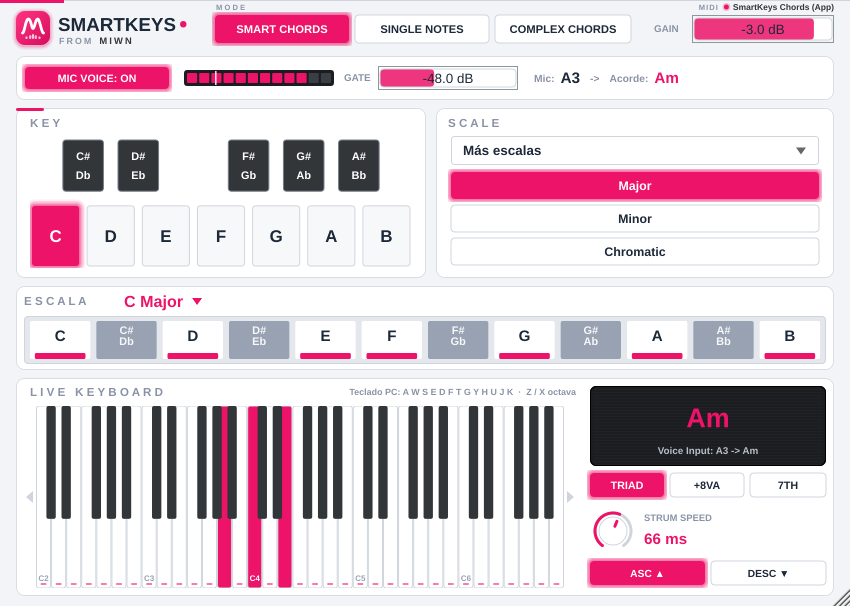
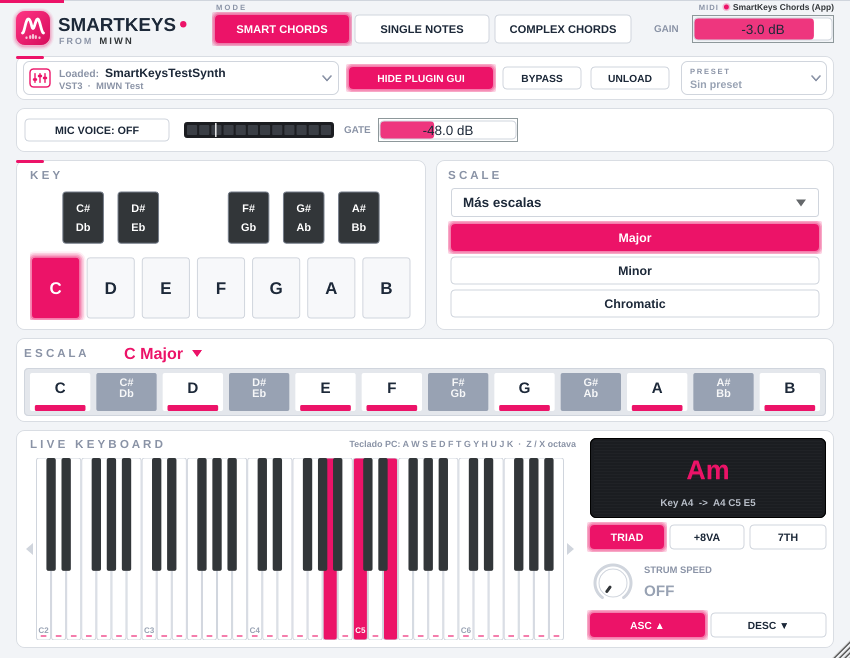
2.0.0: Enter guarda el preset también después de marcar "Incluir…"; README
- Ventana GUARDAR PRESET: la casilla "Incluir <instrumento> con su sonido" y
  los botones ya no se quedan con el teclado. Antes, marcar la casilla y
  pulsar Enter la desmarcaba (un botón con el foco se pulsa con Enter) y el
  preset no se guardaba.
- README: capturas de la 2.0 (el instrumento cargado y COMPLEX Neo-Soul) y la
  verificación de la ranura (aquí, en la Mac como VST3 y AU, y en Windows).

Claude-Session: https://claude.ai/code/session_01MxRAWnfchTYZ1WWk6Bw6r4

diff --git a/Source/PluginEditor.cpp b/Source/PluginEditor.cpp
@@ -1368,6 +1368,14 @@ PresetDialog::PresetDialog()
     includeInstrument.setColour (juce::ToggleButton::tickDisabledColourId, Colours::border);
     addAndMakeVisible (includeInstrument);
 
+    // El teclado se queda en el nombre: marcar "Incluir…" y pulsar Enter guarda (un botón con el
+    // foco se pulsaría con Enter y desmarcaría la casilla)
+    for (juce::Button* b : { (juce::Button*) &includeInstrument, (juce::Button*) &okButton, (juce::Button*) &cancelButton })
+    {
+        b->setWantsKeyboardFocus (false);
+        b->setMouseClickGrabsKeyboardFocus (false);
+    }
+
     okButton.setToggleState (true, juce::dontSendNotification);   // botón principal (rosa)
     okButton.getProperties().set (fontSizeProperty, 12.0f);
     cancelButton.getProperties().set (fontSizeProperty, 12.0f);

diff --git a/README.md b/README.md
@@ -345,7 +345,7 @@ En la 1.6.1 el teclado ya no usa App Nap: su hilo es de tiempo real y FL Studio,
 - **Tiempo real.** El hilo de audio sólo copia los NoteOn/NoteOff del camino del teclado (ya con el STRUM) a un FIFO lock-free de tamaño fijo, con su hora: inicio del bloque + un bloque + su posición. Un hilo propio vacía el FIFO cada ~1 ms y envía cada nota a su hora, así el teclado lleva el mismo desfase que la salida MIDI. Ni candados, ni memoria dinámica, ni CoreMIDI en el hilo de audio.
 - **Ninguna nota colgada ni doble.** El teclado lleva la cuenta de lo que cada instancia dejó sonando. Al poner el bypass, reiniciar el audio o cerrar el plugin, envía sus NoteOff. Si dos instancias tocan la misma nota, sale una sola vez y se apaga cuando la suelta la última.
 - **Grabación en bucle.** El teclado tiene su propio router y su propio STRUM, a los que sólo llegan las teclas que deben salir por él. Mientras el DAW graba (y se lo dice al plugin: `isRecording`; la etiqueta muestra `· REC`), SmartKeys anota en qué posición (en negras) salió cada tecla y en qué vuelta del bucle (una vuelta nueva empieza cuando la posición salta hacia atrás). Si FL repite una tecla en la misma posición (±1 semicorchea, por si FL cuantiza al grabar) que en una vuelta anterior de la misma toma, está tocando lo que ya grabó en el patrón de SmartKeys, y ese acorde no sale otra vez: el instrumento enganchado ya lo tiene grabado. Sin grabar no se filtra nada: al tocar en vivo sobre un bucle, repetir un acorde en el mismo sitio de cada vuelta es lo normal. Si el DAW no corta el bloque de audio justo al final del bucle, la primera nota de la vuelta siguiente llega en un bloque que empezó antes del final, con una posición «de más»: SmartKeys aprende dónde termina el bucle en la primera vuelta (o lo sabe desde el principio si el DAW anuncia sus puntos de bucle) y la reconoce igual. En una toma nueva, la primera vuelta sale entera. La salida MIDI y el piano de SmartKeys siguen tocándolo todo.
-- **Acordes al Piano Roll de SmartKeys (1.7).** En este modo FL devuelve el teclado a SmartKeys a propósito y lo graba en su Piano Roll. Lo que sale de las teclas de SmartKeys (pantalla, teclado de la Mac, voz) se convierte en acorde y sale por el teclado; su eco (cada envío vuelve una vez, en unos pocos bloques) no suena otra vez. Todo lo demás que llega del DAW (el Piano Roll al reproducir, o una tecla tocada desde FL) suena tal cual por el piano y la salida MIDI, sin pasar por el router ni por el teclado virtual: no se convierte otra vez en acorde ni se graba doble, grabe FL o no. Al cambiar de modo se suelta todo lo que sonaba, y el modo se guarda con el proyecto. Si lo que sale no vuelve (FL no recibe el teclado) o llegan teclas del DAW con el transporte parado (se está tocando con el teclado de FL), la etiqueta lo avisa.
+- **Acordes al Piano Roll de SmartKeys (1.7).** En este modo FL devuelve el teclado a SmartKeys a propósito y lo graba en su Piano Roll. Lo que sale de las teclas de SmartKeys (pantalla, teclado de la Mac, voz) se convierte en acorde y sale por el teclado; su eco (cada envío vuelve una vez, en unos pocos bloques) no suena otra vez. Todo lo demás que llega del DAW (el Piano Roll al reproducir, o una tecla tocada desde FL) suena tal cual por el instrumento cargado y la salida MIDI, sin pasar por el router ni por el teclado virtual: no se convierte otra vez en acorde ni se graba doble, grabe FL o no. Al cambiar de modo se suelta todo lo que sonaba, y el modo se guarda con el proyecto. Si lo que sale no vuelve (FL no recibe el teclado) o llegan teclas del DAW con el transporte parado (se está tocando con el teclado de FL), la etiqueta lo avisa.
 - **Exportar.** Fuera de tiempo real (render) no envía nada: el disco va más rápido que el reloj.
 - **Eco.** Si FL devuelve el teclado al propio SmartKeys, cada nota del acorde volvería a entrar como una tecla y dispararía otro acorde. SmartKeys sabe qué notas envió el teclado y cuándo (de todas sus instancias):
   - Un NoteOn es candidato a eco si esa nota salió por el teclado hace muy poco (unos pocos bloques) y su eco todavía no llegó. Cada envío vuelve una sola vez, así que repetir rápido una tecla nunca se confunde con un eco.
@@ -446,6 +446,16 @@ SmartKeys/
 
 ## Verificación realizada
 
+- **La ranura de instrumento (2.0)**, con un instrumento de prueba propio (`Tests/TestSynth.cpp`: un sintetizador que apunta cada evento MIDI que recibe y en qué muestra, cómo lo preparan y su estado) cargado **dentro** del VST3 compilado de SmartKeys, como en un DAW. Pasa aquí (Linux), en una **Mac Intel** con macOS 15 (como VST3 y como **Audio Unit**, registrado y validado antes con `auval`) y en **Windows** (GitHub Actions):
+  - Una tecla → el instrumento recibe el **acorde completo** (D4 → D4 F4 A4) en la muestra exacta de la salida MIDI, y su sonido sale por SmartKeys (en el espectro, D, F y A). Al soltar, los 3 NoteOff.
+  - **STRUM** 100 ms: el instrumento recibe F4, A4 a +5520 y C5 a +12 480 muestras (ASC) y al revés (DESC), igual que la salida MIDI. Si se suelta la tecla a mitad del barrido, la nota pendiente no le llega.
+  - **COMPLEX CHORDS**: las 7 notas. Si el DAW cambia el búfer a 2048, SmartKeys prepara otra vez el instrumento y nunca le pasa un bloque más grande que el preparado (un bloque de 1024 con el instrumento preparado a 256 le llega en 4 trozos, con cada nota en su muestra).
+  - SmartKeys **declara al DAW la latencia** del instrumento (96 muestras) y vuelve a 0 sin instrumento. `GAIN` −30 dB baja el instrumento ~27 dB.
+  - **BYPASS**: el instrumento recibe el NoteOff de lo que sonaba y se calla; los acordes siguen saliendo por MIDI. **UNLOAD** lo destruye.
+  - **Guardar y abrir el proyecto** (otra instancia de SmartKeys): el instrumento vuelve con **su propio sonido** (su estado) y su latencia. Un instrumento que no está instalado se conserva al guardar. Uno que devuelve NaN: ese bloque sale en silencio.
+  - **Carga protegida**: si el programa se cerró mientras se creaba un instrumento, el proyecto no lo vuelve a crear solo, pero lo conserva.
+  - **0 asignaciones** de memoria en 2000 bloques con el instrumento cargado (acordes, STRUM, cambios de modo, All Notes Off).
+  - **Catálogo** (`CatalogTests.cpp`, 31 comprobaciones): la búsqueda de VST3 encuentra el instrumento de prueba y no ofrece a SmartKeys; la lista se guarda; un plugin que cerró el programa al examinarlo queda fuera; en la Mac, los Audio Unit del sistema sin abrir ninguno (el instrumento de prueba aparece como AU); los presets de fábrica y del usuario; y 8000 bloques de audio mientras el hilo de mensajes hace 60 cambios al azar en la ranura (cargar, quitar, BYPASS, preparar, estado), sin un NaN.
 - **Teclado "SmartKeys Chords" en una Mac de verdad** (GitHub Actions, Mac Intel con macOS 15, CoreMIDI real; 47 comprobaciones). El VST3 compilado crea el teclado y la prueba lo abre como lo hace FL Studio, como una entrada MIDI:
   - F#3 en Fa mayor sale como **F3 A3 C4 a la vez** (las 3 notas en 0,02 ms), 10,4 ms después de la tecla (un bloque de audio).
   - Con STRUM 41 ms DESC salen C4, A3 a +47,3 ms y F3 a +107,2 ms (esperado: +47,1 y +106,6), igual que en la salida MIDI; también con el búfer partido en trozos.
@@ -460,24 +470,24 @@ SmartKeys/
   - Todo con `NSZombieEnabled`: un mensaje a un objeto ya liberado (el cierre de FL Studio de la 1.6.0) hace fallar la prueba en el acto.
 - **MIC VOICE sin sidechain en una Mac de verdad** (GitHub Actions, Mac Intel con macOS 15). Se instala [BlackHole](https://github.com/ExistentialAudio/BlackHole) (un cable de audio virtual) como entrada y salida de macOS y se reproduce un La3 de 220 Hz:
   - **Sonda** (`Tests/MicProbe.cpp`, con el mismo código del plugin): abre y cierra la entrada 6 veces seguidas y después la lee 4 s. Recibe el 99 % de las muestras a 48 kHz y detecta **220,009 Hz (La3)**. La frecuencia de muestreo (48 kHz) y el búfer (512) del dispositivo son **los mismos antes y después**. En silencio llega −150 dBFS y no se detecta nada.
-  - **El VST3 compilado**, cargado como en un DAW con su entrada en silencio digital: `MIC VOICE: ON` lee el micrófono de macOS y saca **La menor** por MIDI (canal 1) y por el piano. Si la entrada del plugin trae voz (Do4), usa esa; cuando vuelve el silencio, otra vez el micrófono de macOS. Al apagar `MIC VOICE` suelta las notas.
+  - **El VST3 compilado**, cargado como en un DAW con su entrada en silencio digital: `MIC VOICE: ON` lee el micrófono de macOS y saca **La menor** por MIDI (canal 1) y por el instrumento de prueba cargado en la ranura. Si la entrada del plugin trae voz (Do4), usa esa; cuando vuelve el silencio, otra vez el micrófono de macOS. Al apagar `MIC VOICE` suelta las notas.
 - **pluginval nivel 10** (el máximo) con las pruebas de editor, en Mac Intel, en Windows y aquí (con el teclado *SmartKeys Chords* encendido): **SUCCESS**. Incluye el validador oficial de Steinberg, estado, automatización, seguridad de hilos, fuzzing y buses.
 - **pluginval nivel 10 sobre el VST3 compilado con AddressSanitizer + UBSan**, con el teclado encendido (abre y cierra el editor una y otra vez; es la prueba que reproducía el cierre de FL Studio de la 1.2–1.3): **SUCCESS**, 0 errores de memoria.
-- **561 comprobaciones del núcleo:**
+- **552 comprobaciones del núcleo:**
   - Escalas, acordes, voicings complejos, router MIDI, detector de voz y STRUM exacto a la muestra.
   - **Búfer circular del micrófono:** canal 1 de un bloque estéreo, 20 000 escrituras y lecturas irregulares, desbordamiento, latencia acotada y **dos hilos de verdad** a la vez (1,1 millones de muestras sin perder ni repetir una). Escribir y leer nunca asigna memoria.
   - **Control del micrófono** (simulado): se abre a la frecuencia del dispositivo, se reabre si cambia la entrada o deja de entregar audio, avisa si falla, no abre Bluetooth, respeta el permiso (pendiente → abre al permitirlo; denegado; programa sin `NSMicrophoneUsageDescription`).
   - **Teclado SmartKeys Chords:** cada nota sale en el orden de su hora y a su hora (±6 ms, se conserva el STRUM); un NoteOn que llega con 1 s de retraso no sale, ni su NoteOff; todas las instancias saben qué salió (para reconocer el eco); la misma nota de dos instancias sale una sola vez y se apaga con la última; al reiniciar o cerrar una instancia salen sus NoteOff; con el FIFO lleno descarta sin bloquear ni pedir memoria.
   - 0 asignaciones en todo el camino de audio.
-- **Prueba de integración** (`HostTests.cpp`, 88 comprobaciones). Carga el VST3 compilado como un DAW y comprueba:
-  - Cada tecla sale como acorde completo por MIDI, **siempre por el canal 1** (aunque entre por otro), mientras suena el piano interno; `GAIN` baja el piano sin tocar el MIDI.
+- **Prueba de integración** (`HostTests.cpp`, 136 comprobaciones). Carga el VST3 compilado como un DAW, con el instrumento de prueba en su ranura, y comprueba:
+  - Cada tecla sale como acorde completo por MIDI, **siempre por el canal 1** (aunque entre por otro), mientras el instrumento cargado lo toca; `GAIN` baja el instrumento sin tocar el MIDI.
   - Ya no existen `MIDI CH`, `OUTPUT MODE`, `A4` ni `MICROTUNING`; un proyecto de la 1.3 / 1.4 con `MIDI CH 5` se abre sin restos y sale por el canal 1.
   - El STRUM a 100 ms: +5520 y +12480 muestras a 48 kHz, en ASC y en DESC. COMPLEX CHORDS de 5 a 7 notas.
   - La voz por la entrada del DAW (sidechain) y **MIC VOICE sin sidechain** con un micrófono simulado a 44,1 kHz mientras el DAW va a 48 kHz: La3 → La menor, cambio a la entrada del DAW y vuelta, frases que disparan y sueltan el acorde.
   - **4000 bloques de 0 a 512 muestras** (como los manda FL Studio): ningún evento MIDI fuera de su bloque.
   - **Teclado SmartKeys Chords**, a tiempo real (47 comprobaciones): el acorde completo a la vez; el STRUM con el mismo desfase, también con el búfer partido en trozos procesados de golpe (como FL Studio); repeticiones cada 60 ms y una segunda tecla 20 ms después sin perder ninguna; **bucle simulado** (todo lo que sale vuelve a entrar en el bloque siguiente, 50 ecos): sólo los acordes de las teclas pulsadas, con legato y repeticiones, también con STRUM; el bucle que aparece de repente: ninguna nota colgada; **grabación en bucle** (un compás que se repite: lo que FL repite en la vuelta 2 no sale otra vez por el teclado, lo nuevo sí, también con el acorde en la negra 1 aunque el bloque de audio cruce el final del bucle; sin grabar, cada vuelta sale entera; en una toma nueva, la primera vuelta sale entera); **dos instancias** tocando la misma tecla: cada nota sale una vez y se apaga con la última; **acordes al Piano Roll de SmartKeys** (con el teclado devuelto a SmartKeys como hace FL: la voz sale como acorde una sola vez y su eco no suena otra vez; las notas del Piano Roll suenan tal cual y no salen por el teclado; grabando en bucle, el acorde sale una sola vez; con el modo apagado todo vuelve a ser como antes); bypass, exportar, apagar y cerrar.
-  - **0 asignaciones** en 3000 llamadas al `processBlock` real, en 2,5 s leyendo el micrófono del sistema y con el teclado activo y sus ecos, medidas reemplazando `malloc`.
-  - **Concurrencia:** un hilo de audio llama sin parar al `processBlock` mientras el hilo de mensajes guarda y carga el estado, cambia parámetros, enciende y apaga `MIC VOICE` (el micrófono se abre y se cierra) y enciende y apaga el teclado *SmartKeys Chords* (se crea y se destruye con el audio corriendo).
+  - **0 asignaciones** en 3000 llamadas al `processBlock` real, en 2000 más con el instrumento cargado, en 2,5 s leyendo el micrófono del sistema y con el teclado activo y sus ecos, medidas reemplazando `malloc`.
+  - **Concurrencia** (8 s, 76 829 bloques): un hilo de audio llama sin parar al `processBlock` mientras el hilo de mensajes guarda y carga el estado, cambia parámetros, enciende y apaga `MIC VOICE` (el micrófono se abre y se cierra), enciende y apaga el teclado *SmartKeys Chords* (se crea y se destruye con el audio corriendo) y **carga, quita, cambia y pone en BYPASS el instrumento de la ranura** (128 cambios), y otro hilo lee el estado como algunos DAW (416 veces).
 - **AddressSanitizer + UBSan** y **ThreadSanitizer:**
   - La prueba de integración completa, con el hilo del micrófono simulado, el de audio, el de mensajes y el del teclado *SmartKeys Chords* a la vez (también con los ecos del bucle y 20 s de concurrencia encendiendo y apagando el teclado): **0 errores de memoria y 0 carreras de datos**.
   - 1322 acciones al azar en la interfaz durante 5 minutos con el audio corriendo y el micrófono simulado: modos, escalas, barra ESCALA, teclado en pantalla y de la PC, STRUM, ASC/DESC, GAIN, GATE, `MIC VOICE` encendido y apagado, el menú del teclado *SmartKeys Chords* (acordes al Piano Roll de SmartKeys, a otro instrumento, apagado), y redimensionar: **0 errores**.
